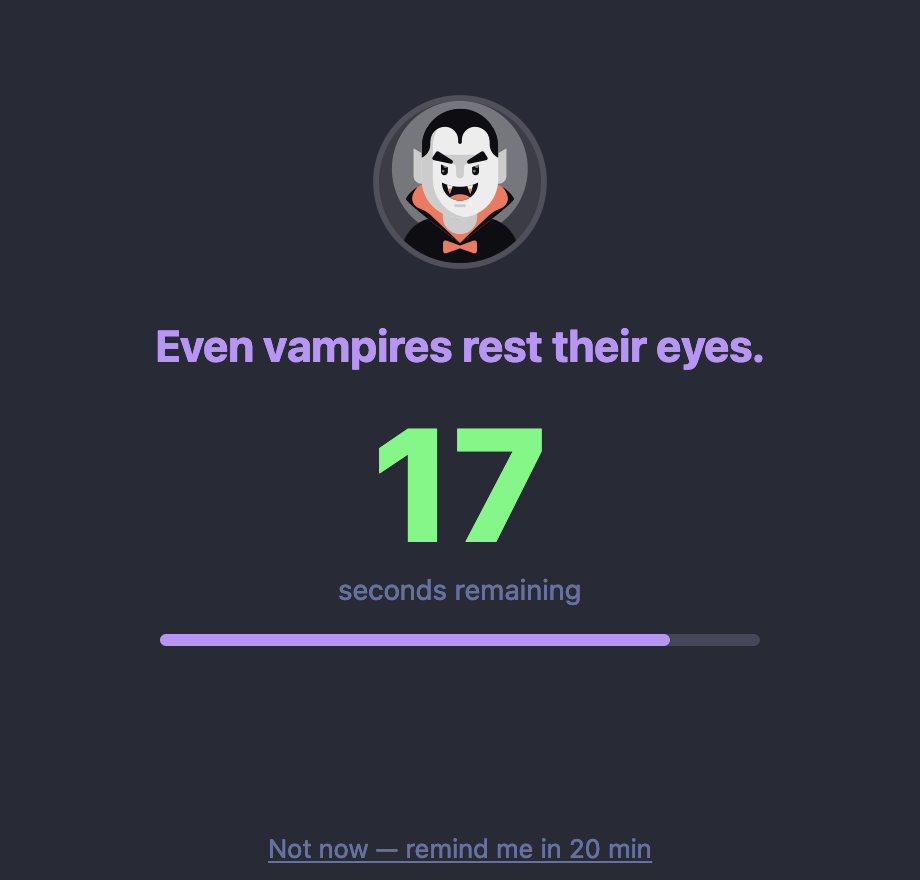
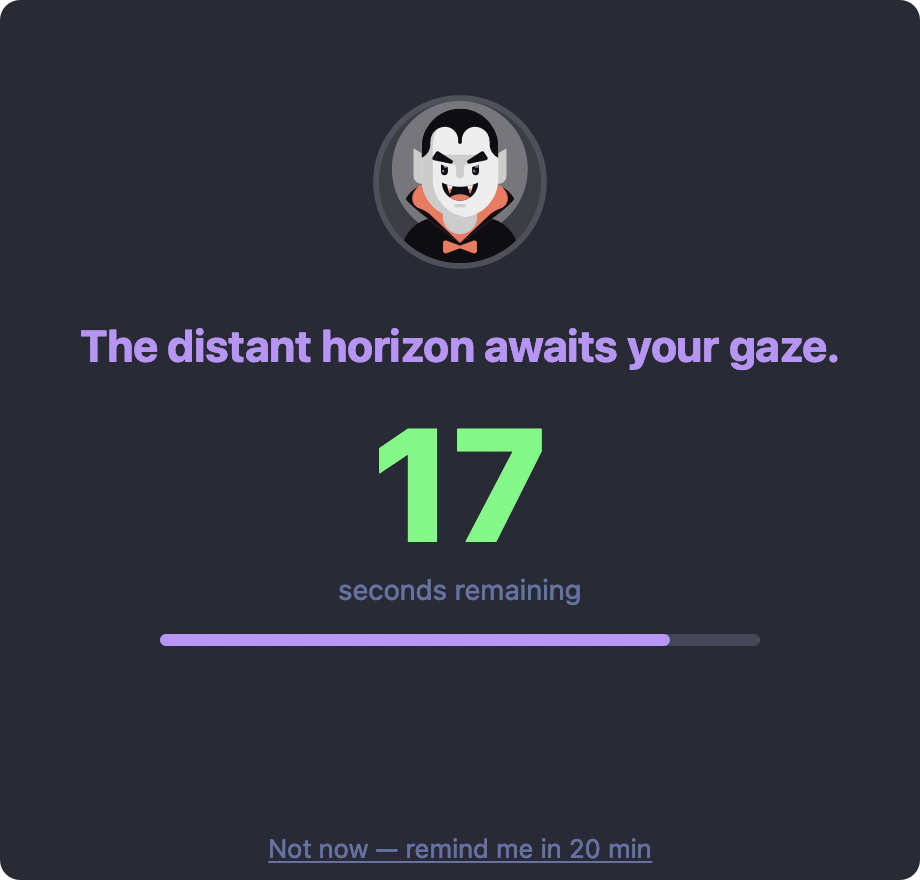
Move vampire quotes to countdown screen only, update screenshots
First screen now shows a clean "Time for an eye break!" title.
Vampire quotes only appear during the countdown phase.
Screenshots now render with rounded corners matching the actual window.

diff --git a/scripts/eye_break_ui.swift b/scripts/eye_break_ui.swift
@@ -311,9 +311,9 @@ class EyeBreakController: NSObject, NSWindowDelegate {
 
     // ── Phase: Prompt ──
     func showPrompt(allowSnooze: Bool) {
-        heading.stringValue  = Quotes.random(Quotes.prompt)
-        body.stringValue     = "Time for an eye break!"
-        detail.stringValue   = "Look at something 20 feet away for 20 seconds."
+        heading.stringValue  = "Time for an eye break!"
+        body.stringValue     = "Look at something 20 feet away for 20 seconds."
+        detail.stringValue   = ""
 
         body.isHidden = false; detail.isHidden = false
         countdownLbl.isHidden = true; countdownSub.isHidden = true; progressBar.isHidden = true
@@ -414,7 +414,20 @@ func captureWindow(_ window: NSWindow, to path: String) {
     guard let view = window.contentView else { return }
     guard let rep = view.bitmapImageRepForCachingDisplay(in: view.bounds) else { return }
     view.cacheDisplay(in: view.bounds, to: rep)
-    guard let data = rep.representation(using: .png, properties: [:]) else { return }
+
+    let size = view.bounds.size
+    let radius: CGFloat = 10
+    let rounded = NSImage(size: size)
+    rounded.lockFocus()
+    let clip = NSBezierPath(roundedRect: NSRect(origin: .zero, size: size),
+                            xRadius: radius, yRadius: radius)
+    clip.addClip()
+    rep.draw(in: NSRect(origin: .zero, size: size))
+    rounded.unlockFocus()
+
+    guard let tiff = rounded.tiffRepresentation,
+          let bmp = NSBitmapImageRep(data: tiff),
+          let data = bmp.representation(using: .png, properties: [:]) else { return }
     try? data.write(to: URL(fileURLWithPath: path))
 }
 
